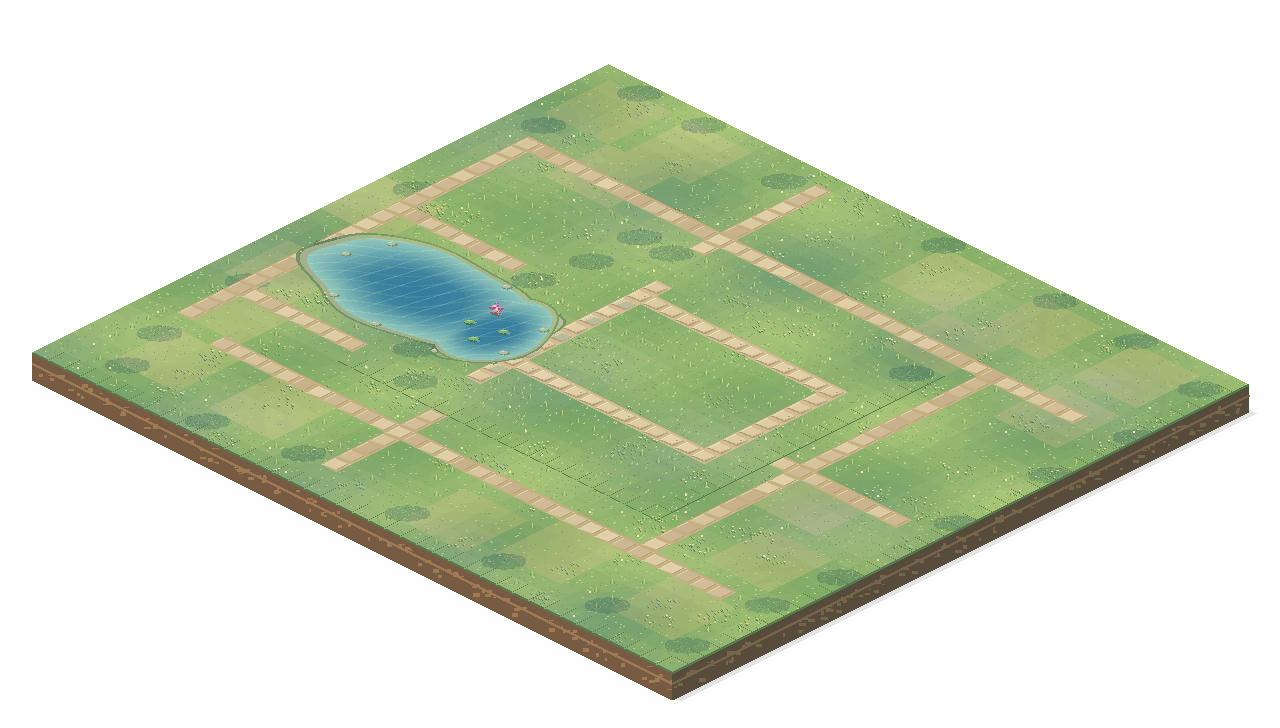
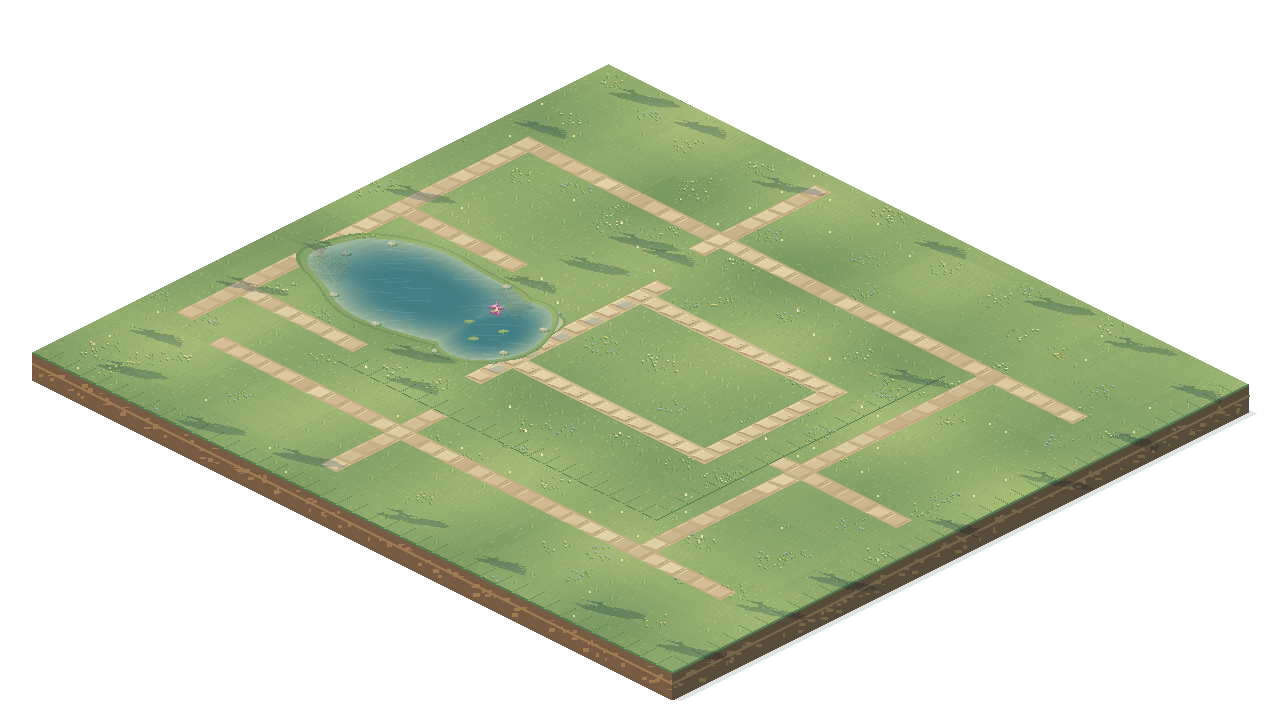
art: refine garden foliage, water and natural materials

diff --git a/src/migration/scene.ts b/src/migration/scene.ts
@@ -27,7 +27,7 @@ export class GardenScene extends Phaser.Scene {
  preload(){
   this.load.image('ground','/art/phaser-meadow.png');
   this.load.image('trees','/art/phaser-canopies.png');
-  this.load.image('objects','/art/atlas.png');
+  this.load.image('objects','/art/phaser-objects.png');
   this.load.image('rainbow','/art/rainbow.png');
  }
  private sprite(name:FrameName,x:number,y:number,depth:number){

diff --git a/PHASER-MIGRATION.md b/PHASER-MIGRATION.md
@@ -17,4 +17,4 @@ Local checkpoint on feature/phaser-migration. Run `npm run dev` and open `/?rend
 
 Only the world view is replaced in the checkpoint. React owns dialogs, menus and audio. Phaser receives snapshots and owns one canvas, its animation loop, viewport and scene resources. The legacy renderer remains available for gameplay comparison. Security/economy tests run against in-memory PGlite. Full gameplay parity requires later checkpoints.
 
-World checkpoint: the Phaser scene renders the original world anchors and public object snapshots with a native-resolution meadow, four new tree crowns, glowing lamps, koi, petals and ripples. Regenerate the local artwork with `node scripts/phaser-meadow.mjs` and `node scripts/phaser-canopies.mjs`. For visual review, add `&view=overview` or `&light=day` / `&light=night` to the Phaser preview URL. Lighting overrides affect presentation only. Angry Mode uses the original view. Characters and actionable world objects are reserved for subsequent checkpoints.
+World checkpoint: the Phaser scene renders the original world anchors and public object snapshots with a native-resolution meadow, four tree crowns, glowing lamps, koi, petals and ripples. Regenerate the trees first with `node scripts/phaser-canopies.mjs`, then run `node scripts/phaser-meadow.mjs` to bake their shadows and pond reflections. Run `node scripts/phaser-materials.mjs` for the cottage, wood and soil artwork. For visual review, add `&view=overview` or `&light=day` / `&light=night` to the Phaser preview URL. Lighting overrides affect presentation only. Angry Mode uses the original view. Characters and actionable world objects are reserved for subsequent checkpoints.
